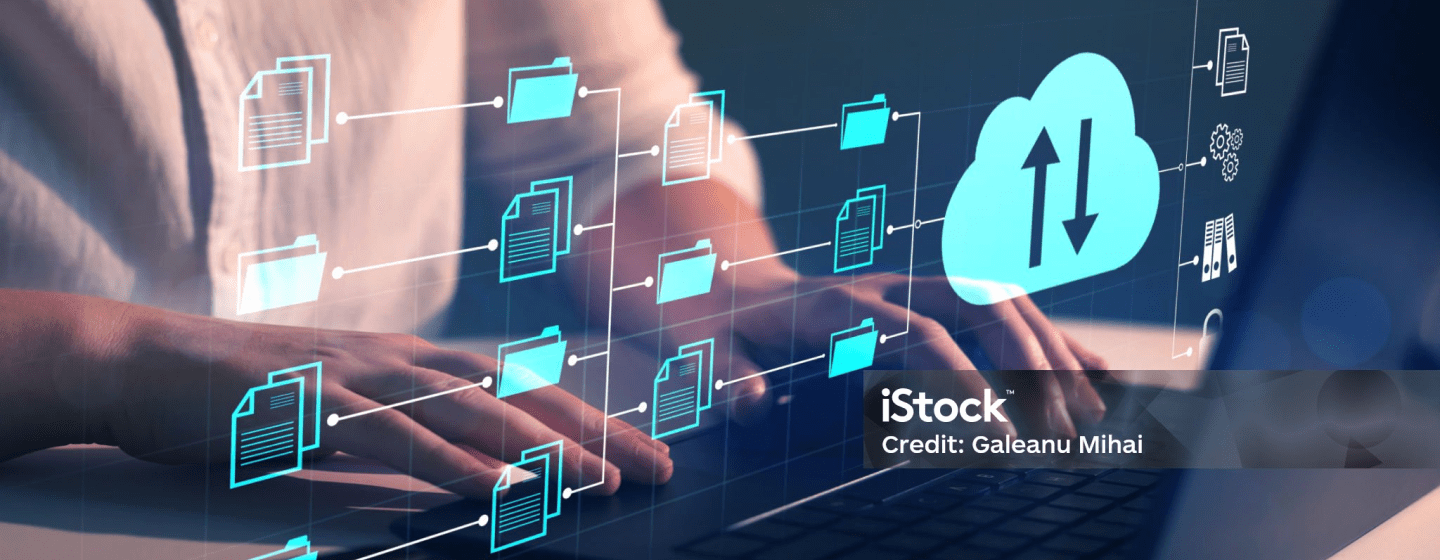
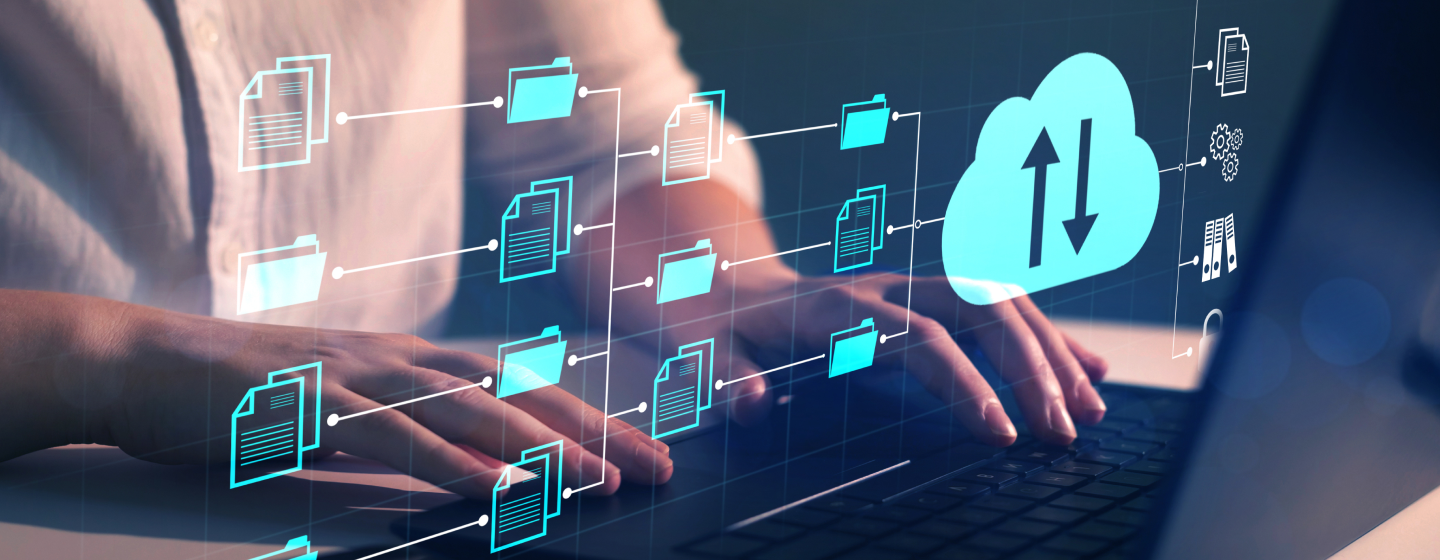
Removed the Istock watermrk from Images

diff --git a/themes/cloudfundis-theme/layouts/partials/footer.html b/themes/cloudfundis-theme/layouts/partials/footer.html
@@ -3,14 +3,14 @@
     <div class="row-m-ftr dy-flex">
         <div class="col-m-ftr">
             <div class="ftr-logo">
-                <a href="#"><img src="/assets/images/Isolation_Mode.png" alt=""></a>
+                <a href="https://cloud-fundis.co.za/"><img src="/assets/images/Isolation_Mode.png" alt=""></a>
             </div>
             <div class="aws-select">
                 <p>AWS Select Tier partner and provider of cloud-based analytics, big data, machine
                     learning, and DevOps solutions. </p>
             </div>
             <div class="right-text">
-                <p> © 2024 <a href="#">Cloud Fundis.</a> All Rights Reserved.</p>
+                <p> © {{ now.Year }} <a href="https://cloud-fundis.co.za/">Cloud Fundis.</a> All Rights Reserved.</p>
             </div>
         </div>
         <div class="col-m-ftr">
@@ -18,15 +18,12 @@
                 <p>Follow us</p>
                 <ul>
                     <li>
-                        <a href="#"><img src="/assets/images/ic_baseline-facebook.svg" alt=""></a>
-                    </li>
-                    <li>
-                        <a href="#"><img src="/assets/images/insta.svg" alt=""></a>
+                        <a href="https://www.linkedin.com/company/cloud-fundis/?originalSubdomain=za"><img src="/assets/images/insta.svg" alt=""></a>
                     </li>
                 </ul>
             </div>
             <div class="created-by">
-                <img src="/assets/images/shape.png" alt="" width="170px">
+                <a href="https://shapeshift.co.za/" target="_blank"><img src="/assets/images/shape.png" alt="" width="170px"></a>
             </div>
         </div>
     </div>
